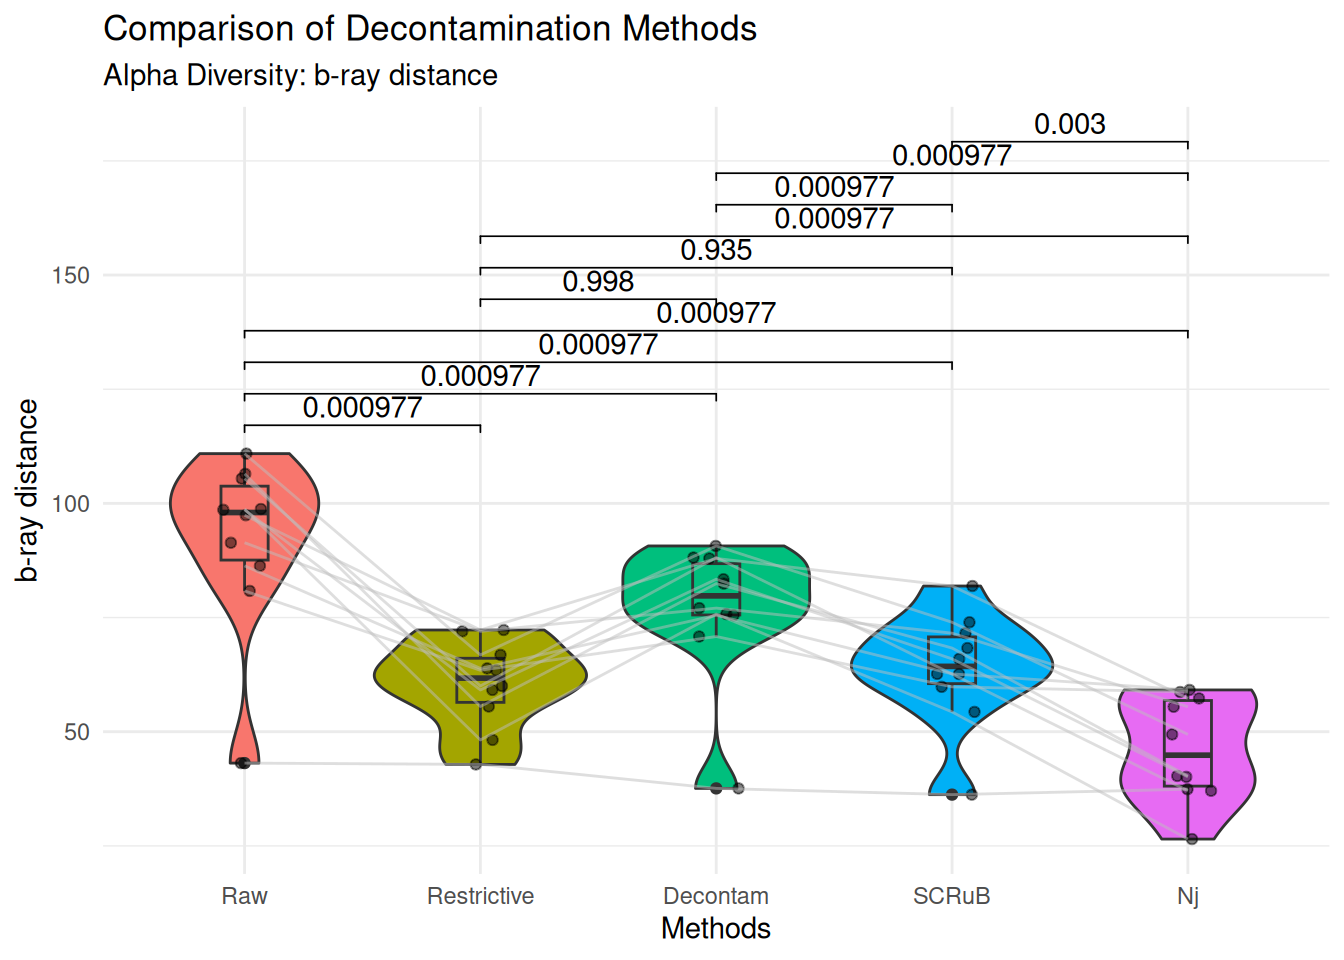
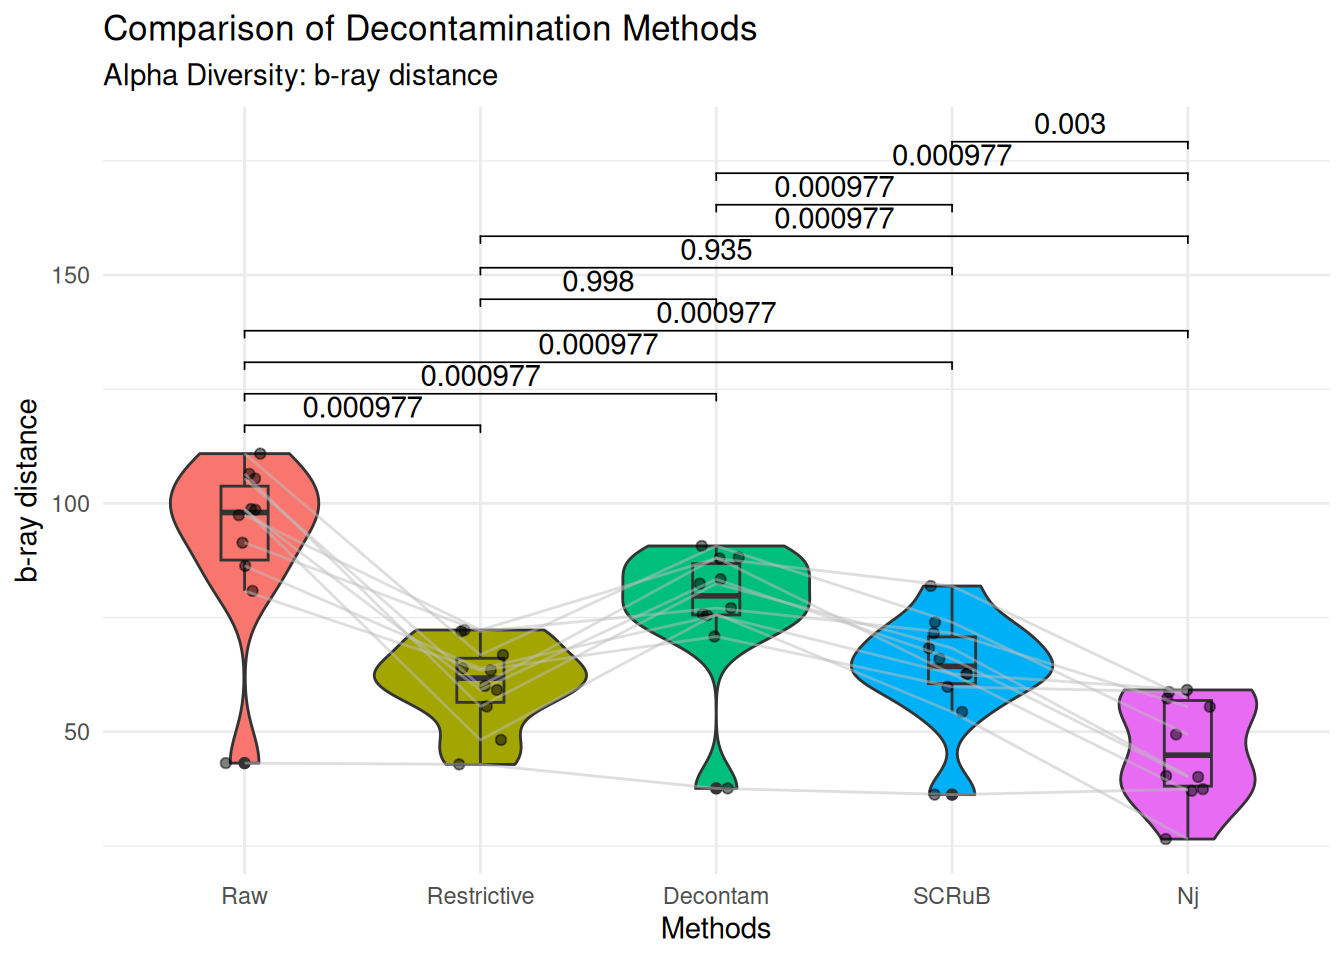
add LMM for replica analysis

diff --git a/Rscripts/Chap3/Quarto_Doc/Chap3_TechnicalReplica.html b/Rscripts/Chap3/Quarto_Doc/Chap3_TechnicalReplica.html
@@ -740,15 +740,15 @@ pre > code.sourceCode > span > a:first-child::before { text-decoration: underlin
 <pre><code># A tibble: 9 × 6
   AN_NR     Raw Restrictive Decontam SCRuB    Nj
   &lt;chr&gt;   &lt;dbl&gt;       &lt;dbl&gt;    &lt;dbl&gt; &lt;dbl&gt; &lt;dbl&gt;
-1 AN1023 0.983        0.926   0.979  0.982 0.980
-2 AN1044 0.625        0.605   0.571  0.555 0.582
-3 AN1078 0.996        0.979   0.994  0.991 0.960
-4 AN1100 0.426        0.213   0.303  0.300 0.319
-5 AN1117 0.986        0.868   0.885  0.937 0.730
-6 AN850  0.701        0.691   0.659  0.646 0.650
-7 AN851  0.972        0.973   0.986  0.982 0.973
-8 AN866  0.972        0.993   0.978  0.982 0.941
-9 AN912  0.0959       0.991   0.0935 0.926 0.954</code></pre>
+1 AN1023 0.983        0.925   0.979  0.983 0.973
+2 AN1044 0.624        0.603   0.573  0.562 0.584
+3 AN1078 0.996        0.979   0.994  0.990 0.963
+4 AN1100 0.429        0.208   0.308  0.301 0.300
+5 AN1117 0.986        0.861   0.887  0.938 0.735
+6 AN850  0.698        0.688   0.658  0.649 0.636
+7 AN851  0.972        0.975   0.984  0.983 0.986
+8 AN866  0.971        0.993   0.980  0.982 0.946
+9 AN912  0.0983       0.991   0.0952 0.926 0.961</code></pre>
 </div>
 </div>
 <p>Wilcox-test</p>
@@ -1052,15 +1052,18 @@ pre > code.sourceCode > span > a:first-child::before { text-decoration: underlin
 </div>
 </div>
 </div>
+<p><strong>Remarks</strong>: all decontamination methods seem to improve the data. Among them, Nj outperformed others.</p>
 </section>
 </section>
 <section id="peranova-based-approach" class="level2">
 <h2 class="anchored" data-anchor-id="peranova-based-approach">2. PERANOVA based Approach</h2>
-<p>Each Method, calculate distance and adonis2 using dis ~ AN_NR + batch and compare R2.</p>
+<p>Linear Mixed Model: distance ~ AN_NR + Reaplica</p>
+<p>Assumption: With high quality data, the different among samples should be explain by bacterial profile of samples, instead of replica.</p>
+<!-- Each Method, calculate distance and adonis2 using dis ~ AN_NR + batch and compare R2. -->
 <div class="cell">
 <details class="code-fold">
 <summary>Code</summary>
-<div class="sourceCode cell-code" id="cb63"><pre class="sourceCode r code-with-copy"><code class="sourceCode r"><span id="cb63-1"><a href="#cb63-1" aria-hidden="true" tabindex="-1"></a>process_pernova <span class="ot">&lt;-</span> <span class="cf">function</span>(ps1, ps2){</span>
+<div class="sourceCode cell-code" id="cb63"><pre class="sourceCode r code-with-copy"><code class="sourceCode r"><span id="cb63-1"><a href="#cb63-1" aria-hidden="true" tabindex="-1"></a>process_pernova <span class="ot">&lt;-</span> <span class="cf">function</span>(ps1, ps2, <span class="at">transform =</span> <span class="st">"compositional"</span>, <span class="at">dist_metric =</span> <span class="st">"bray"</span>){</span>
 <span id="cb63-2"><a href="#cb63-2" aria-hidden="true" tabindex="-1"></a>  ps1 <span class="ot">&lt;-</span> ps1 <span class="sc">%&gt;%</span> </span>
 <span id="cb63-3"><a href="#cb63-3" aria-hidden="true" tabindex="-1"></a>    <span class="fu">ps_mutate</span>(<span class="at">Replica =</span> <span class="st">"R1"</span>) <span class="sc">%&gt;%</span> </span>
 <span id="cb63-4"><a href="#cb63-4" aria-hidden="true" tabindex="-1"></a>    <span class="fu">ps_mutate</span>(<span class="at">NewName =</span> <span class="fu">sprintf</span>(<span class="st">"%s_%s"</span>, AN_NR, Replica))</span>
@@ -1072,13 +1075,14 @@ pre > code.sourceCode > span > a:first-child::before { text-decoration: underlin
 <span id="cb63-10"><a href="#cb63-10" aria-hidden="true" tabindex="-1"></a>  <span class="fu">sample_names</span>(ps2) <span class="ot">&lt;-</span> <span class="fu">meta</span>(ps2)[[<span class="st">"NewName"</span>]]</span>
 <span id="cb63-11"><a href="#cb63-11" aria-hidden="true" tabindex="-1"></a>  </span>
 <span id="cb63-12"><a href="#cb63-12" aria-hidden="true" tabindex="-1"></a>  ps <span class="ot">&lt;-</span> <span class="fu">merge_phyloseq</span>(ps1, ps2)</span>
-<span id="cb63-13"><a href="#cb63-13" aria-hidden="true" tabindex="-1"></a>  dis_mx <span class="ot">&lt;-</span> ps <span class="sc">%&gt;%</span> </span>
-<span id="cb63-14"><a href="#cb63-14" aria-hidden="true" tabindex="-1"></a>    microbiome<span class="sc">::</span><span class="fu">transform</span>(<span class="at">transform =</span> <span class="st">"compositional"</span>) <span class="sc">%&gt;%</span> </span>
-<span id="cb63-15"><a href="#cb63-15" aria-hidden="true" tabindex="-1"></a>    phyloseq<span class="sc">::</span><span class="fu">distance</span>(<span class="at">method =</span> <span class="st">"bray"</span>)</span>
-<span id="cb63-16"><a href="#cb63-16" aria-hidden="true" tabindex="-1"></a>  </span>
-<span id="cb63-17"><a href="#cb63-17" aria-hidden="true" tabindex="-1"></a>  res <span class="ot">&lt;-</span> vegan<span class="sc">::</span><span class="fu">adonis2</span>(<span class="at">formula =</span> dis_mx <span class="sc">~</span> AN_NR <span class="sc">+</span> Replica, <span class="at">data =</span> <span class="fu">meta</span>(ps), <span class="at">by =</span> <span class="st">"term"</span>, <span class="at">permutations =</span> <span class="dv">9999</span>)</span>
-<span id="cb63-18"><a href="#cb63-18" aria-hidden="true" tabindex="-1"></a>  <span class="fu">return</span>(res)</span>
-<span id="cb63-19"><a href="#cb63-19" aria-hidden="true" tabindex="-1"></a>}</span></code><button title="Copy to Clipboard" class="code-copy-button"><i class="bi"></i></button></pre></div>
+<span id="cb63-13"><a href="#cb63-13" aria-hidden="true" tabindex="-1"></a>  <span class="co">#print(meta(ps))</span></span>
+<span id="cb63-14"><a href="#cb63-14" aria-hidden="true" tabindex="-1"></a>  dis_mx <span class="ot">&lt;-</span> ps <span class="sc">%&gt;%</span> </span>
+<span id="cb63-15"><a href="#cb63-15" aria-hidden="true" tabindex="-1"></a>    microbiome<span class="sc">::</span><span class="fu">transform</span>(<span class="at">transform =</span> transform) <span class="sc">%&gt;%</span> </span>
+<span id="cb63-16"><a href="#cb63-16" aria-hidden="true" tabindex="-1"></a>    phyloseq<span class="sc">::</span><span class="fu">distance</span>(<span class="at">method =</span> dist_metric)</span>
+<span id="cb63-17"><a href="#cb63-17" aria-hidden="true" tabindex="-1"></a>  </span>
+<span id="cb63-18"><a href="#cb63-18" aria-hidden="true" tabindex="-1"></a>  res <span class="ot">&lt;-</span> vegan<span class="sc">::</span><span class="fu">adonis2</span>(<span class="at">formula =</span> dis_mx <span class="sc">~</span> AN_NR <span class="sc">+</span> Replica, <span class="at">data =</span> <span class="fu">meta</span>(ps), <span class="at">by =</span> <span class="st">"margin"</span>, <span class="at">permutations =</span> <span class="dv">99999</span>)</span>
+<span id="cb63-19"><a href="#cb63-19" aria-hidden="true" tabindex="-1"></a>  <span class="fu">return</span>(res)</span>
+<span id="cb63-20"><a href="#cb63-20" aria-hidden="true" tabindex="-1"></a>}</span></code><button title="Copy to Clipboard" class="code-copy-button"><i class="bi"></i></button></pre></div>
 </details>
 </div>
 <p>Compare among different approaches</p>
@@ -1086,20 +1090,20 @@ pre > code.sourceCode > span > a:first-child::before { text-decoration: underlin
 <details class="code-fold">
 <summary>Code</summary>
 <div class="sourceCode cell-code" id="cb64"><pre class="sourceCode r code-with-copy"><code class="sourceCode r"><span id="cb64-1"><a href="#cb64-1" aria-hidden="true" tabindex="-1"></a>df_res <span class="ot">&lt;-</span> <span class="fu">data.frame</span>(<span class="at">Method =</span> <span class="fu">character</span>(<span class="dv">0</span>), <span class="at">AN_NR =</span> <span class="fu">double</span>(<span class="dv">0</span>), <span class="at">Rep =</span> <span class="fu">double</span>(<span class="dv">0</span>))</span>
-<span id="cb64-2"><a href="#cb64-2" aria-hidden="true" tabindex="-1"></a>df_res[<span class="fu">nrow</span>(df_res) <span class="sc">+</span><span class="dv">1</span>, ] <span class="ot">&lt;-</span> <span class="fu">c</span>(<span class="st">"Raw"</span>,<span class="fu">process_pernova</span>(pseq_raw, rep_raw)<span class="sc">$</span>R2[<span class="dv">1</span><span class="sc">:</span><span class="dv">2</span>] <span class="sc">%&gt;%</span> <span class="fu">unlist</span>())</span>
-<span id="cb64-3"><a href="#cb64-3" aria-hidden="true" tabindex="-1"></a>df_res[<span class="fu">nrow</span>(df_res) <span class="sc">+</span><span class="dv">1</span>, ] <span class="ot">&lt;-</span> <span class="fu">c</span>(<span class="st">"Restrictive"</span>,<span class="fu">process_pernova</span>(pseq_restrictive, rep_restrictive)<span class="sc">$</span>R2[<span class="dv">1</span><span class="sc">:</span><span class="dv">2</span>] <span class="sc">%&gt;%</span> <span class="fu">unlist</span>())</span>
-<span id="cb64-4"><a href="#cb64-4" aria-hidden="true" tabindex="-1"></a>df_res[<span class="fu">nrow</span>(df_res) <span class="sc">+</span><span class="dv">1</span>, ] <span class="ot">&lt;-</span> <span class="fu">c</span>(<span class="st">"Decontam"</span>,<span class="fu">process_pernova</span>(pseq_decontam, rep_decontam)<span class="sc">$</span>R2[<span class="dv">1</span><span class="sc">:</span><span class="dv">2</span>] <span class="sc">%&gt;%</span> <span class="fu">unlist</span>())</span>
-<span id="cb64-5"><a href="#cb64-5" aria-hidden="true" tabindex="-1"></a>df_res[<span class="fu">nrow</span>(df_res) <span class="sc">+</span><span class="dv">1</span>, ] <span class="ot">&lt;-</span> <span class="fu">c</span>(<span class="st">"SCRuB"</span>,<span class="fu">process_pernova</span>(pseq_SCRuB, rep_SCRuB)<span class="sc">$</span>R2[<span class="dv">1</span><span class="sc">:</span><span class="dv">2</span>] <span class="sc">%&gt;%</span> <span class="fu">unlist</span>())</span>
-<span id="cb64-6"><a href="#cb64-6" aria-hidden="true" tabindex="-1"></a>df_res[<span class="fu">nrow</span>(df_res) <span class="sc">+</span><span class="dv">1</span>, ] <span class="ot">&lt;-</span> <span class="fu">c</span>(<span class="st">"Nj"</span>,<span class="fu">process_pernova</span>(pseq_Nj, rep_Nj)<span class="sc">$</span>R2[<span class="dv">1</span><span class="sc">:</span><span class="dv">2</span>] <span class="sc">%&gt;%</span> <span class="fu">unlist</span>())</span>
+<span id="cb64-2"><a href="#cb64-2" aria-hidden="true" tabindex="-1"></a>df_res[<span class="fu">nrow</span>(df_res) <span class="sc">+</span><span class="dv">1</span>, ] <span class="ot">&lt;-</span> <span class="fu">c</span>(<span class="st">"Raw"</span>,<span class="fu">process_pernova</span>(pseq_raw, rep_raw, <span class="at">transform =</span> <span class="st">"clr"</span>, <span class="at">dist_metric =</span> <span class="st">"euclidean"</span>)<span class="sc">$</span>R2[<span class="dv">1</span><span class="sc">:</span><span class="dv">2</span>] <span class="sc">%&gt;%</span> <span class="fu">unlist</span>())</span>
+<span id="cb64-3"><a href="#cb64-3" aria-hidden="true" tabindex="-1"></a>df_res[<span class="fu">nrow</span>(df_res) <span class="sc">+</span><span class="dv">1</span>, ] <span class="ot">&lt;-</span> <span class="fu">c</span>(<span class="st">"Restrictive"</span>,<span class="fu">process_pernova</span>(pseq_restrictive, rep_restrictive, <span class="at">transform =</span> <span class="st">"clr"</span>, <span class="at">dist_metric =</span> <span class="st">"euclidean"</span>)<span class="sc">$</span>R2[<span class="dv">1</span><span class="sc">:</span><span class="dv">2</span>] <span class="sc">%&gt;%</span> <span class="fu">unlist</span>())</span>
+<span id="cb64-4"><a href="#cb64-4" aria-hidden="true" tabindex="-1"></a>df_res[<span class="fu">nrow</span>(df_res) <span class="sc">+</span><span class="dv">1</span>, ] <span class="ot">&lt;-</span> <span class="fu">c</span>(<span class="st">"Decontam"</span>,<span class="fu">process_pernova</span>(pseq_decontam, rep_decontam, <span class="at">transform =</span> <span class="st">"clr"</span>, <span class="at">dist_metric =</span> <span class="st">"euclidean"</span>)<span class="sc">$</span>R2[<span class="dv">1</span><span class="sc">:</span><span class="dv">2</span>] <span class="sc">%&gt;%</span> <span class="fu">unlist</span>())</span>
+<span id="cb64-5"><a href="#cb64-5" aria-hidden="true" tabindex="-1"></a>df_res[<span class="fu">nrow</span>(df_res) <span class="sc">+</span><span class="dv">1</span>, ] <span class="ot">&lt;-</span> <span class="fu">c</span>(<span class="st">"SCRuB"</span>,<span class="fu">process_pernova</span>(pseq_SCRuB, rep_SCRuB, <span class="at">transform =</span> <span class="st">"clr"</span>, <span class="at">dist_metric =</span> <span class="st">"euclidean"</span>)<span class="sc">$</span>R2[<span class="dv">1</span><span class="sc">:</span><span class="dv">2</span>] <span class="sc">%&gt;%</span> <span class="fu">unlist</span>())</span>
+<span id="cb64-6"><a href="#cb64-6" aria-hidden="true" tabindex="-1"></a>df_res[<span class="fu">nrow</span>(df_res) <span class="sc">+</span><span class="dv">1</span>, ] <span class="ot">&lt;-</span> <span class="fu">c</span>(<span class="st">"Nj"</span>,<span class="fu">process_pernova</span>(pseq_Nj, rep_Nj, <span class="at">transform =</span> <span class="st">"clr"</span>, <span class="at">dist_metric =</span> <span class="st">"euclidean"</span>)<span class="sc">$</span>R2[<span class="dv">1</span><span class="sc">:</span><span class="dv">2</span>] <span class="sc">%&gt;%</span> <span class="fu">unlist</span>())</span>
 <span id="cb64-7"><a href="#cb64-7" aria-hidden="true" tabindex="-1"></a><span class="fu">print</span>(df_res)</span></code><button title="Copy to Clipboard" class="code-copy-button"><i class="bi"></i></button></pre></div>
 </details>
 <div class="cell-output cell-output-stdout">
 <pre><code>       Method             AN_NR                Rep
-1         Raw 0.517132606196318  0.242698639866502
-2 Restrictive    0.537758844329 0.0816158905952427
-3    Decontam 0.580052528201071  0.132217983280361
-4       SCRuB 0.550304837328143 0.0604108424055475
-5          Nj 0.534995895950564 0.0812322960266931</code></pre>
+1         Raw 0.446474435455586  0.262334798750843
+2 Restrictive 0.514618887790961  0.165447598031057
+3    Decontam 0.484931410020603  0.214169062901435
+4       SCRuB 0.583794073527683 0.0628102439090299
+5          Nj 0.431766514814395  0.274948293390033</code></pre>
 </div>
 </div>
 </section>
